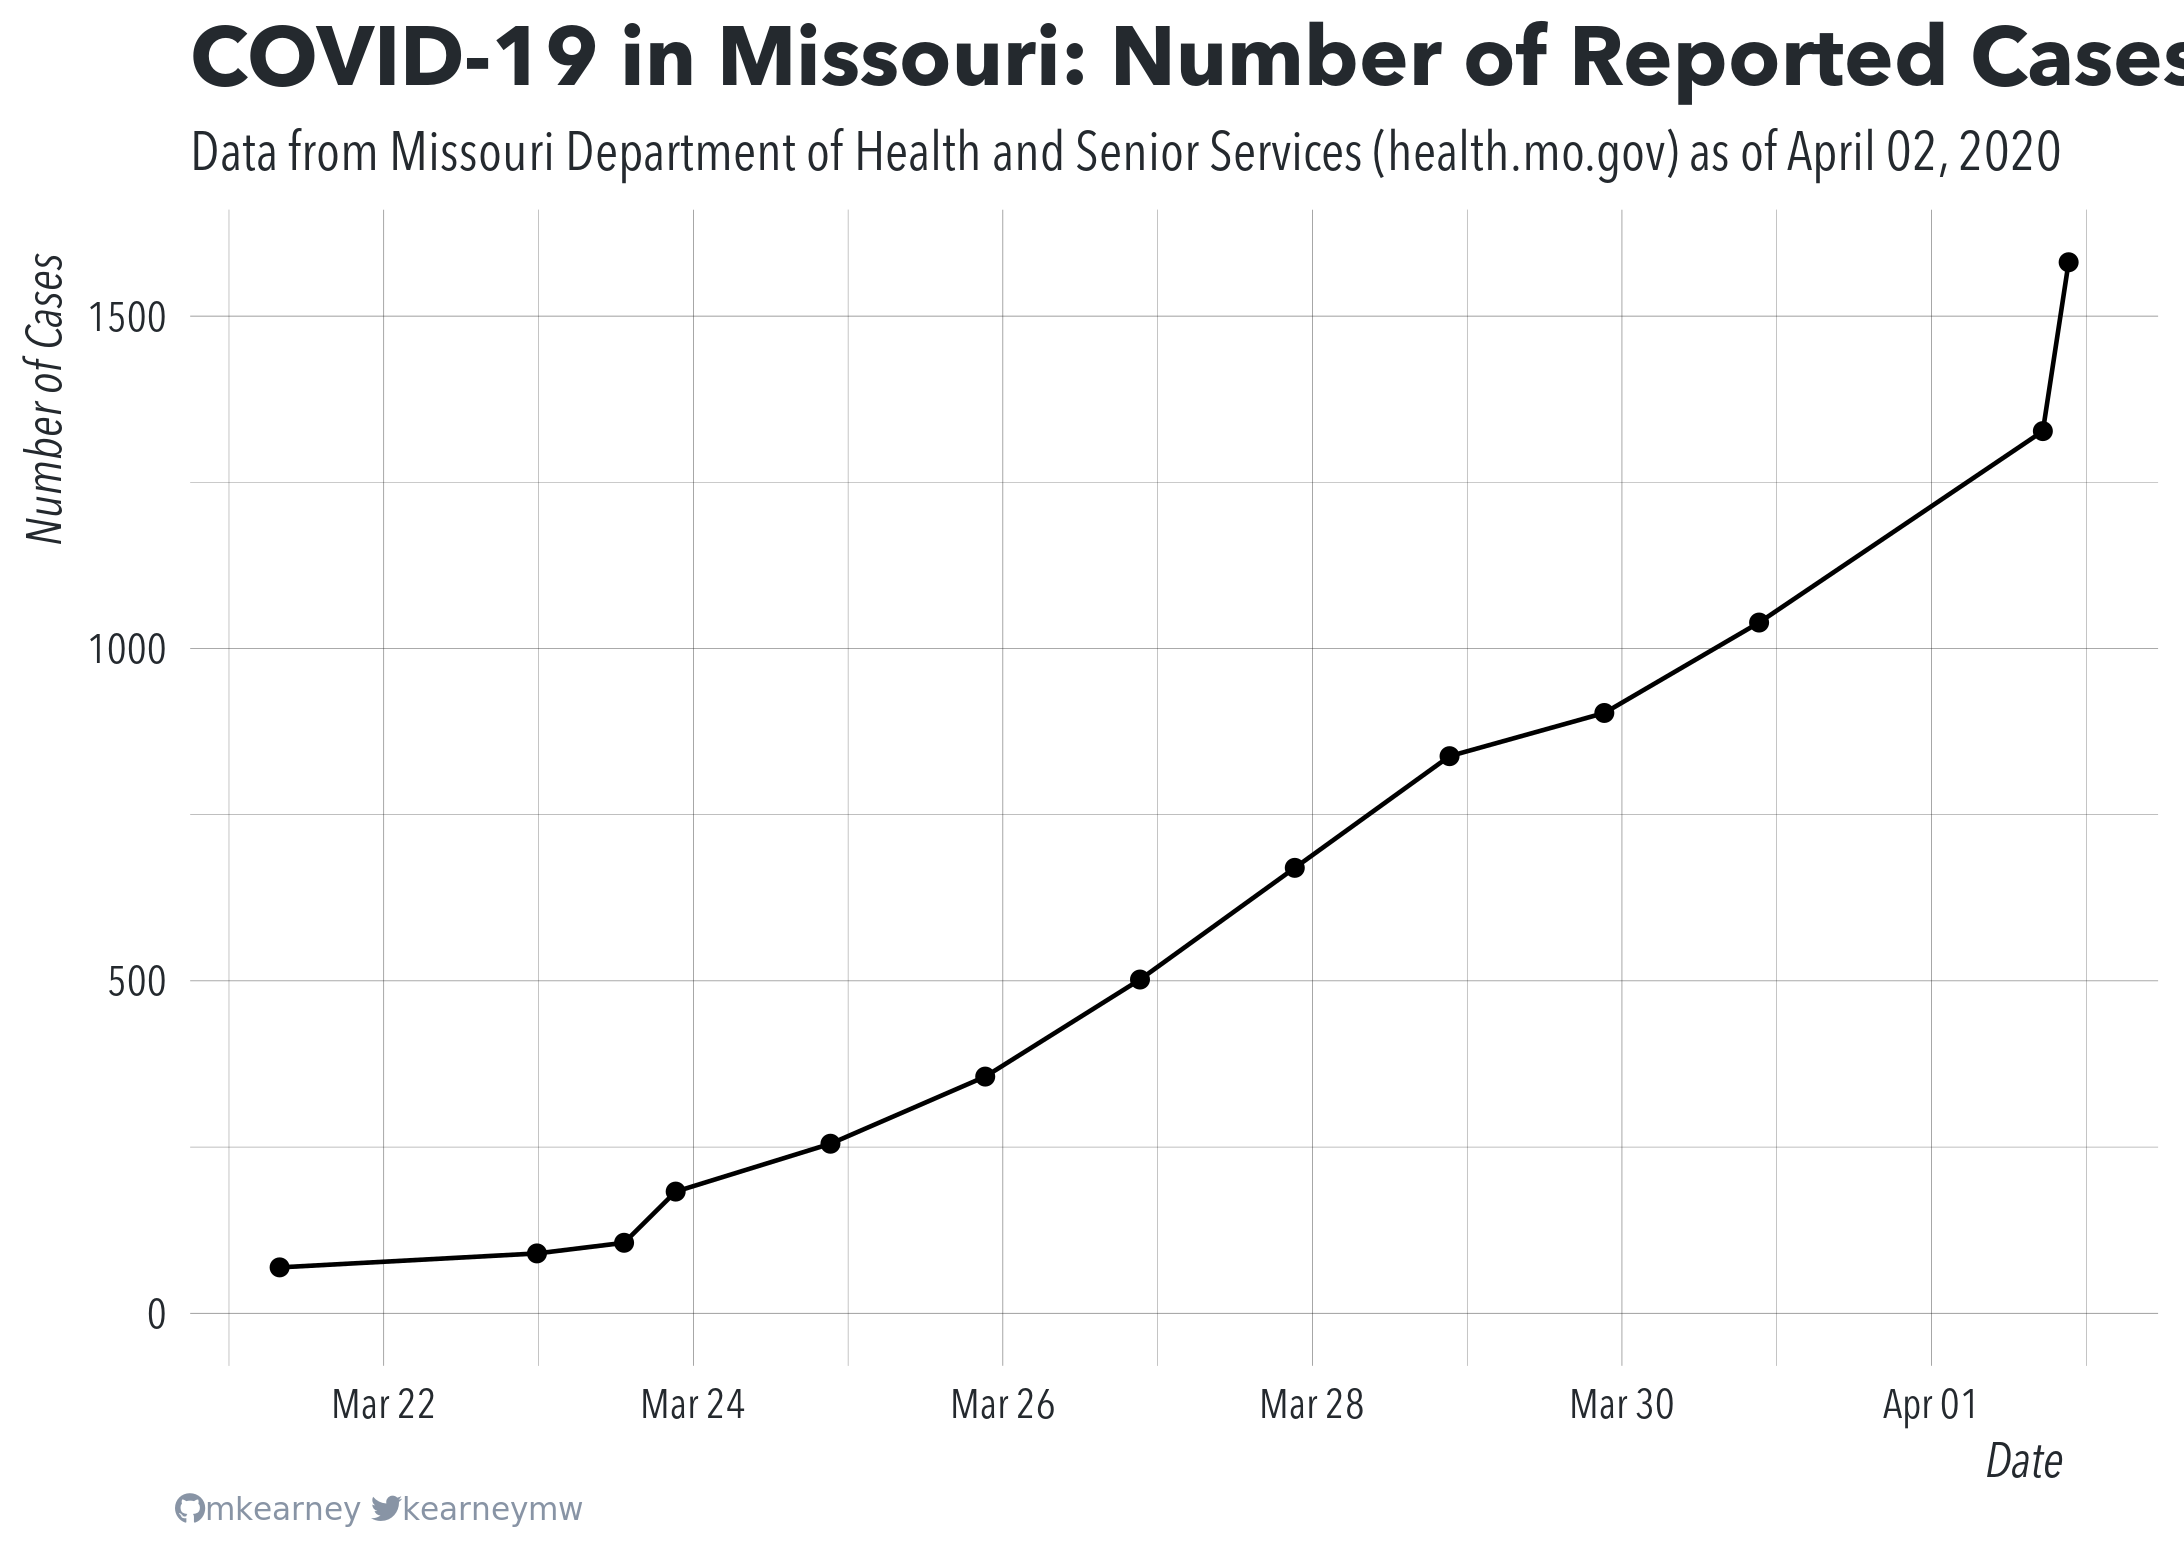
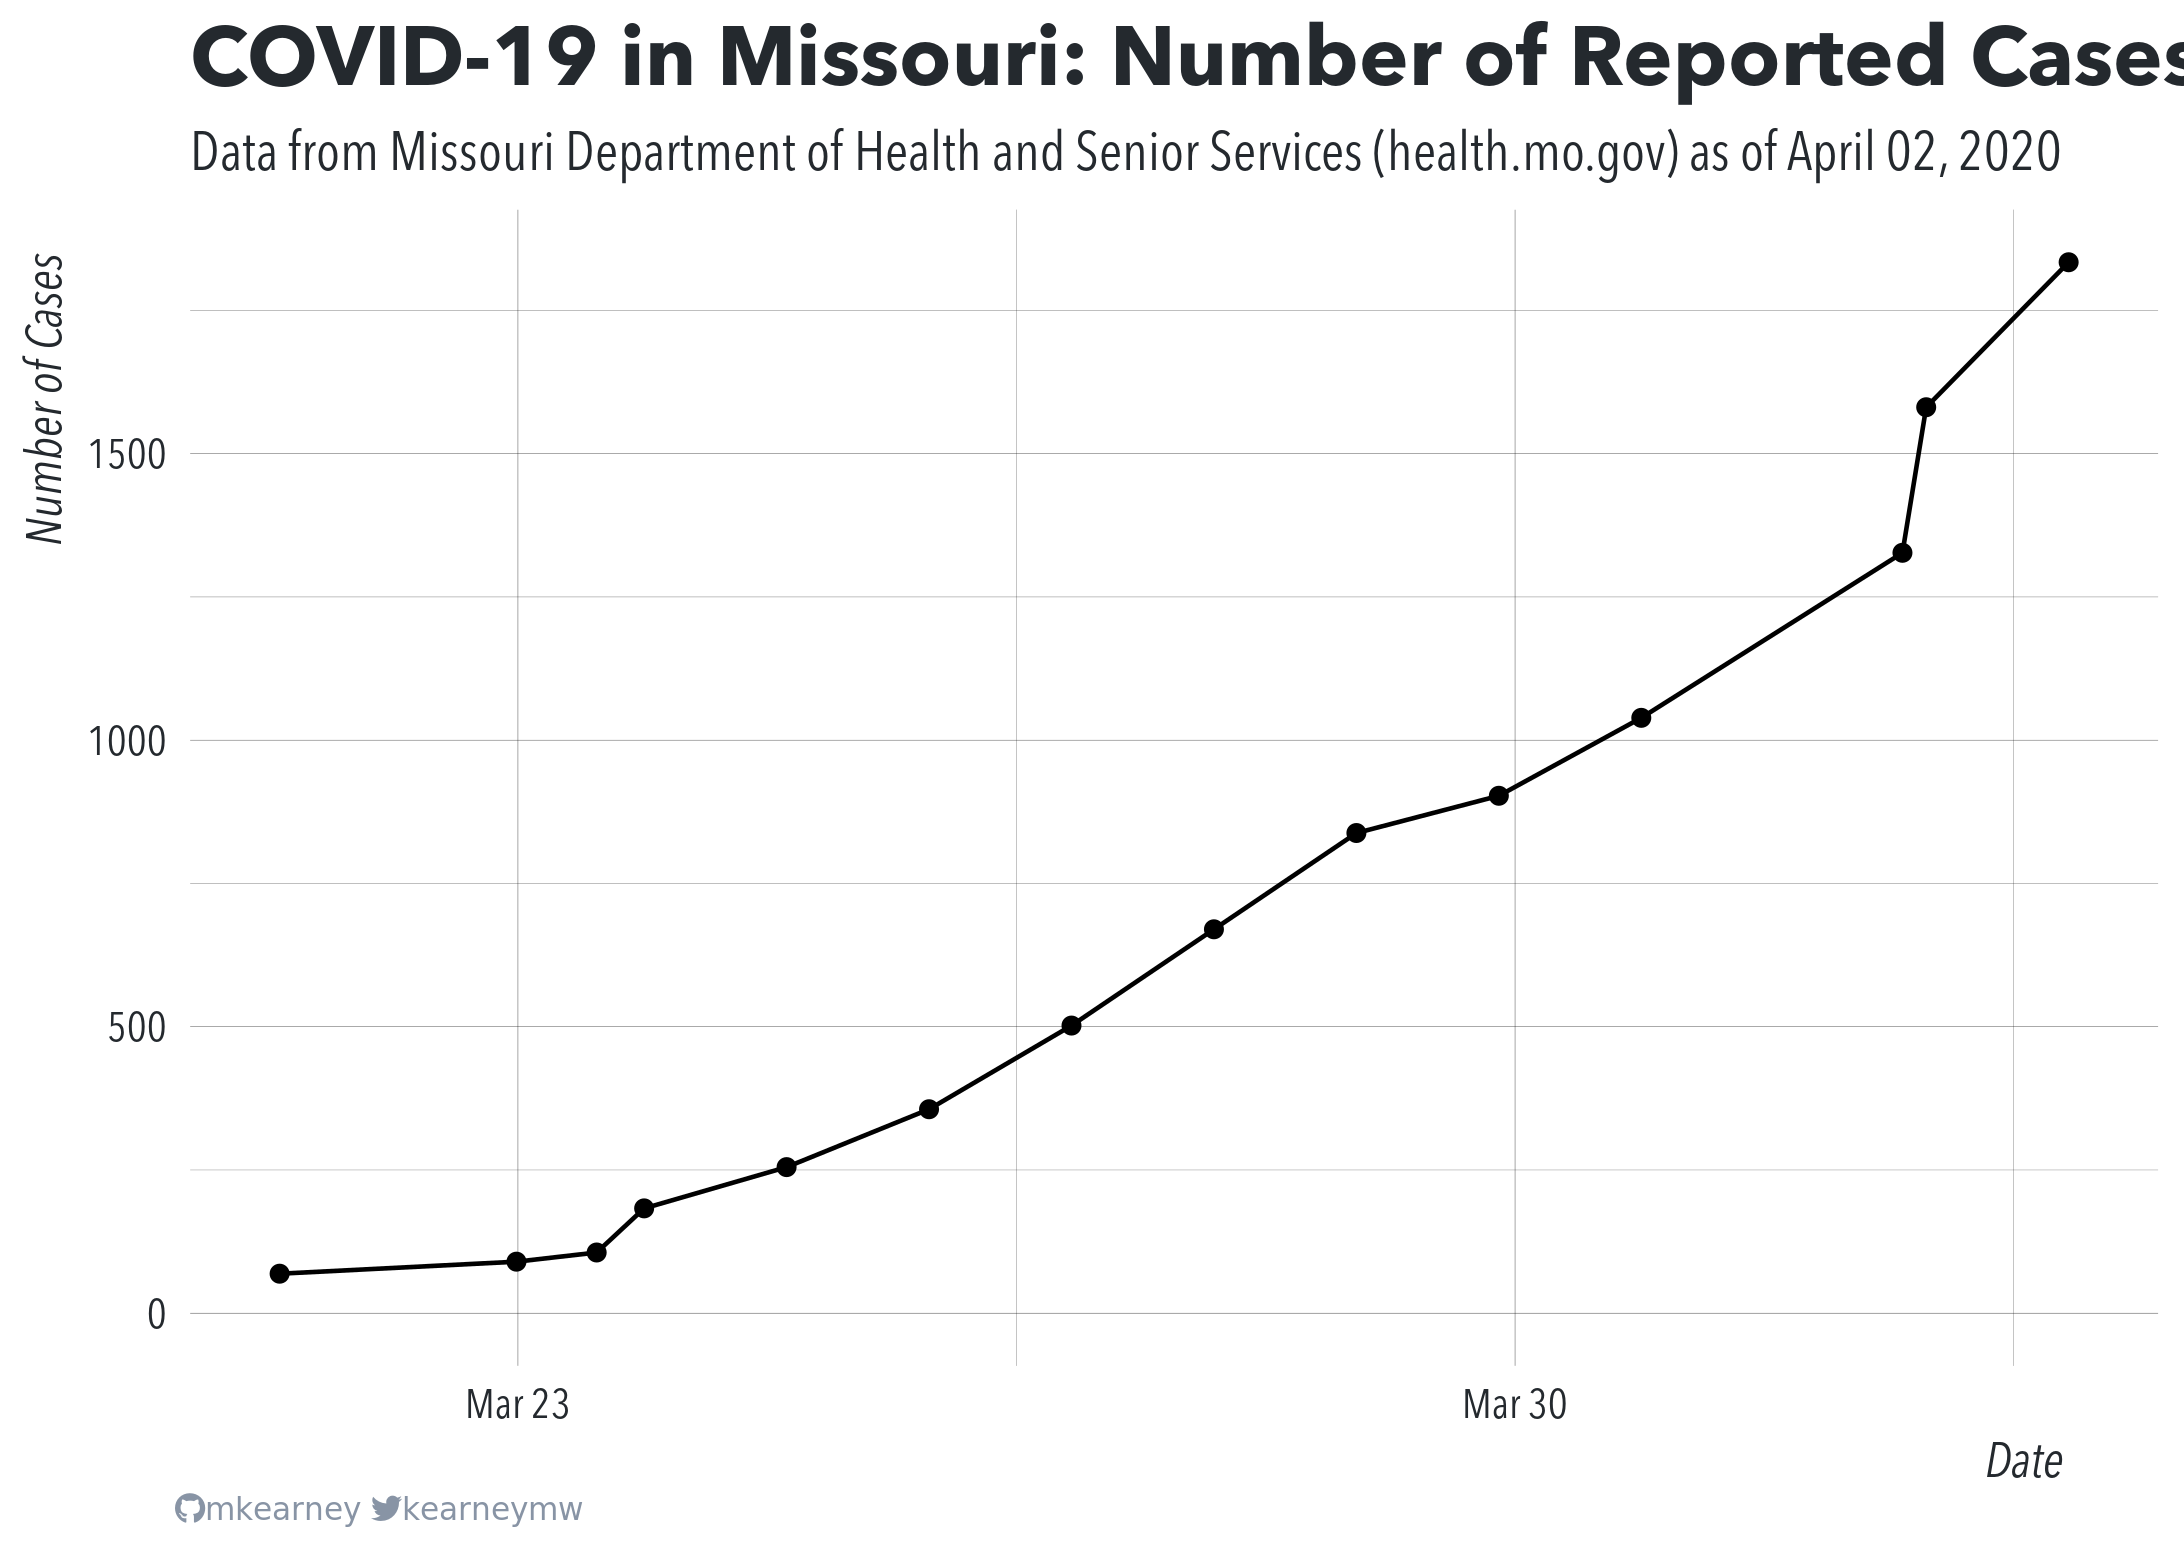
auto update

diff --git a/README.md b/README.md
@@ -25,22 +25,23 @@ at the state or county level:
 ``` r
 ## state totals daya
 suppressMessages(readr::read_csv("data/mo-total.csv"))
-#> # A tibble: 13 x 50
+#> # A tibble: 14 x 50
 #>    state state_abb total_cases state_labs other_labs ages_Boone ages_Camden
 #>    <chr> <chr>           <dbl>      <dbl>      <dbl>      <dbl>       <dbl>
-#>  1 Miss… MO               1581        135       1446          1           1
-#>  2 Miss… MO               1327        121       1206          1           1
-#>  3 Miss… MO               1039        124        915          1           1
-#>  4 Miss… MO                903         92        811          1           1
-#>  5 Miss… MO                838         98        740          1           1
-#>  6 Miss… MO                670         90        580          1          NA
-#>  7 Miss… MO                502         72        430          1          NA
-#>  8 Miss… MO                356         62        294          1          NA
-#>  9 Miss… MO                255         55        200         NA          NA
-#> 10 Miss… MO                183         47        136         NA          NA
-#> 11 Miss… MO                106         47         59         NA          NA
-#> 12 Miss… MO                 90         38         52         NA          NA
-#> 13 Miss… MO                 69         NA         NA         NA          NA
+#>  1 Miss… MO               1834        140       1694          1           1
+#>  2 Miss… MO               1581        135       1446          1           1
+#>  3 Miss… MO               1327        121       1206          1           1
+#>  4 Miss… MO               1039        124        915          1           1
+#>  5 Miss… MO                903         92        811          1           1
+#>  6 Miss… MO                838         98        740          1           1
+#>  7 Miss… MO                670         90        580          1          NA
+#>  8 Miss… MO                502         72        430          1          NA
+#>  9 Miss… MO                356         62        294          1          NA
+#> 10 Miss… MO                255         55        200         NA          NA
+#> 11 Miss… MO                183         47        136         NA          NA
+#> 12 Miss… MO                106         47         59         NA          NA
+#> 13 Miss… MO                 90         38         52         NA          NA
+#> 14 Miss… MO                 69         NA         NA         NA          NA
 #> # … with 43 more variables: ages_Cass <dbl>, ages_Greene <dbl>,
 #> #   ages_Henry <dbl>, ages_Jackson <dbl>, ages_Lafayette <dbl>, `ages_St.
 #> #   Charles County` <dbl>, `ages_St. Louis City` <dbl>, `ages_St. Louis
@@ -62,20 +63,20 @@ suppressMessages(readr::read_csv("data/mo-total.csv"))
 
 ## county data
 suppressMessages(readr::read_csv("data/mo-county.csv"))
-#> # A tibble: 3,307 x 6
+#> # A tibble: 3,425 x 6
 #>    county    total state_lab other_lab  fips timestamp          
 #>    <chr>     <dbl>     <dbl>     <dbl> <dbl> <dttm>             
-#>  1 Adair         3         0         3 29001 2020-04-02 17:16:01
-#>  2 Andrew        0         0         0 29003 2020-04-02 17:16:01
-#>  3 Atchison      1         1         0 29005 2020-04-02 17:16:01
-#>  4 Audrain       0         0         0 29007 2020-04-02 17:16:01
-#>  5 Barry         1         0         1 29009 2020-04-02 17:16:01
-#>  6 Barton        0         0         0 29011 2020-04-02 17:16:01
-#>  7 Bates         2         0         2 29013 2020-04-02 17:16:01
-#>  8 Benton        3         0         3 29015 2020-04-02 17:16:01
-#>  9 Bollinger     1         0         1 29017 2020-04-02 17:16:01
-#> 10 Boone        65         1        64 29019 2020-04-02 17:16:01
-#> # … with 3,297 more rows
+#>  1 Adair         6         0         6 29001 2020-04-02 21:16:01
+#>  2 Andrew        0         0         0 29003 2020-04-02 21:16:01
+#>  3 Atchison      1         1         0 29005 2020-04-02 21:16:01
+#>  4 Audrain       0         0         0 29007 2020-04-02 21:16:01
+#>  5 Barry         1         0         1 29009 2020-04-02 21:16:01
+#>  6 Barton        0         0         0 29011 2020-04-02 21:16:01
+#>  7 Bates         2         0         2 29013 2020-04-02 21:16:01
+#>  8 Benton        3         0         3 29015 2020-04-02 21:16:01
+#>  9 Bollinger     1         0         1 29017 2020-04-02 21:16:01
+#> 10 Boone        69         2        67 29019 2020-04-02 21:16:01
+#> # … with 3,415 more rows
 ```
 
 ![](img/timeseries.png)
